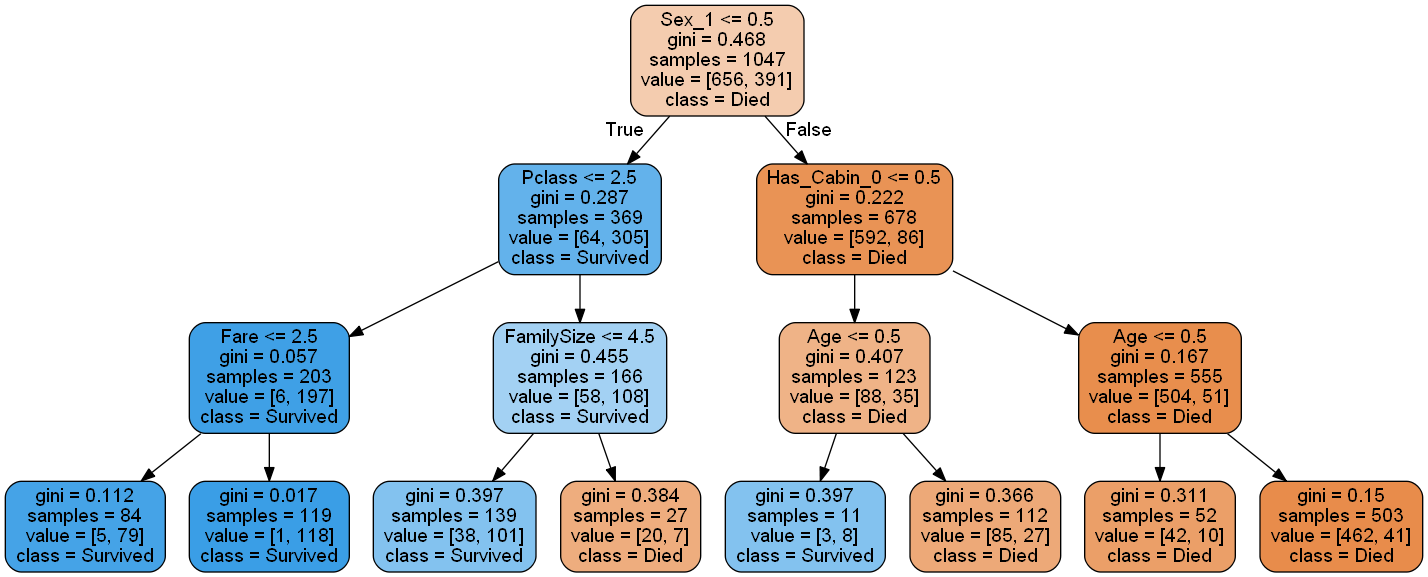
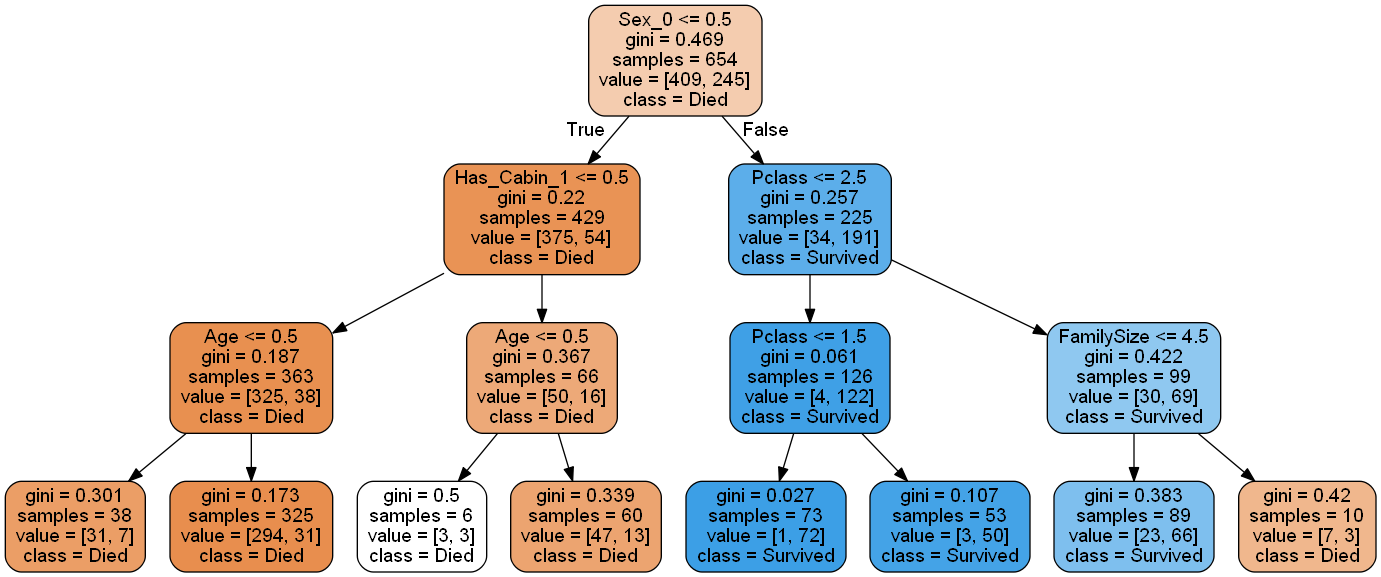
dectreecommit

diff --git a/titanic/decisiontree_usecase.py b/titanic/decisiontree_usecase.py
@@ -162,13 +162,35 @@ print(df.to_string(index=False))
     # print("Accuracy per fold: ", fold_accuracy, "\n")
     # print("Average accuracy: ", avg)
     # print("\n") 
-
-############################### splitting data ###################################
+'''   
+############################### splitting data into 80:20 ###################################
 
 X = totaldata_dummies.drop(['Survived'], axis=1).values 
 Y = totaldata_dummies['Survived'].values
 
 x_train, x_test, y_train, y_test = train_test_split(X, Y,test_size=0.20,random_state=42)
+print("\nx_train:\n")
+print(x_train)
+print(x_train.shape)
+
+print("\nx_test:\n")
+print(x_test)
+print(x_test.shape)
+
+print("\ny_train:\n")
+print(y_train)
+print(y_train.shape)
+
+print("\ny_test:\n")
+print(y_test)
+print(y_test.shape)
+'''
+######################### splitting data into 50:50 ####################################
+
+X = totaldata_dummies.drop(['Survived'], axis=1).values 
+Y = totaldata_dummies['Survived'].values
+
+x_train, x_test, y_train, y_test = train_test_split(X, Y,test_size=0.50,random_state=42)
 print("\nx_train:\n")
 print(x_train)
 print(x_train.shape)
